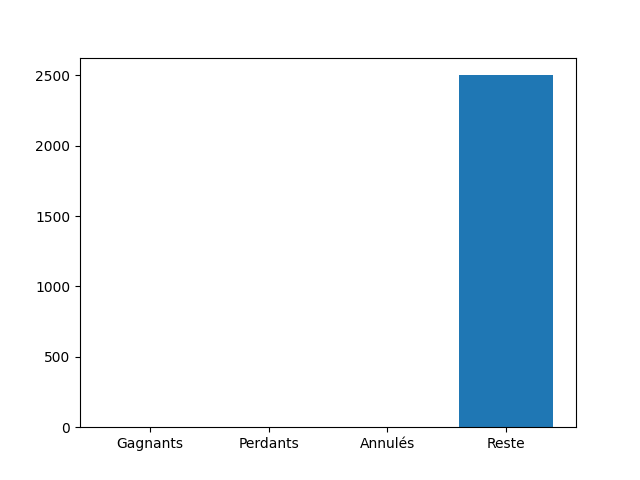
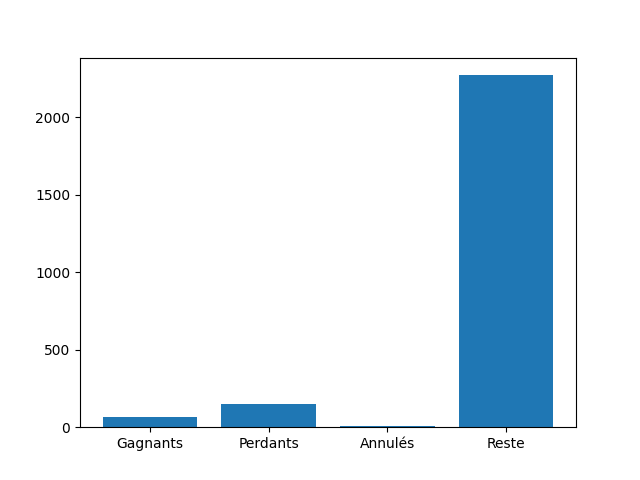
model learning implemented + opti of code

diff --git a/Structure.py b/Structure.py
@@ -1,7 +1,8 @@
 import threading
+import torch
 
 class Structure:
-    def __init__(self, start_edge, end_edge, edges, net, dict_shortest_path, dict_cyclists, dict_cyclists_deleted, dict_cyclists_arrived, traci,\
+    def __init__(self, start_edge, end_edge, edges, net, dict_shortest_path, dict_cyclists, traci,\
     dict_edges_index=None, model=None, open=True, min_group_size=5, step_gap=15, time_travel_multiplier=1):
 
         for e in edges:
@@ -16,8 +17,6 @@ class Structure:
         self.path = self.dict_shortest_path[self.start_edge.getID()+";"+self.end_edge.getID()]
 
         self.dict_cyclists = dict_cyclists
-        self.dict_cyclists_deleted = dict_cyclists_deleted
-        self.dict_cyclists_arrived = dict_cyclists_arrived
 
         self.module_traci = traci
 
@@ -25,7 +24,12 @@ class Structure:
         self.id_cyclists_waiting = []
 
         self.model = model
+        self.loss = torch.nn.BCELoss()
         self.dict_edges_index = dict_edges_index
+        self.dict_model_output = {}
+        self.list_output_to_learn = []
+        self.list_target = []
+
 
         for e in self.path["path"]:
             tls = net.getEdge(e).getTLS()
@@ -64,22 +68,21 @@ class Structure:
     def step(self, step, edges):
         #print(step, self.id_cyclists_waiting)
 
+        if(len(self.list_output_to_learn)>=256):
+            tens_output = torch.FloatTensor(self.list_output_to_learn)
+            tens_target = torch.FloatTensor(self.list_target)
+            l = self.loss(tens_output, tens_target)
+            l.backward()
+            self.list_output_to_learn = []
+            self.list_target = []
+
+
         if(self.open and step%self.step_gap==0):
-            self.check_for_candidates(step, edges)
+            self.check_for_candidates(step, edges)           
 
 
 
         for i in self.module_traci.edge.getLastStepVehicleIDs(self.start_edge.getID()):
-            if(i not in self.dict_cyclists):
-                if i in self.dict_cyclists_deleted:
-                    self.dict_cyclists[i] = self.dict_cyclists_deleted[i]
-                    del self.dict_cyclists_deleted[i]
-                else:
-                    self.dict_cyclists[i] = self.dict_cyclists_arrived[i]
-                    del self.dict_cyclists_arrived[i]
-                self.dict_cyclists[i].alive = True
-                
-                print(i, "removed from dict while still in simu")
             if(self.module_traci.vehicle.getSpeed(i)<= 1 and i not in self.id_cyclists_waiting\
             and i not in self.id_cyclists_crossing_struct and self.dict_cyclists[i].struct_candidate):
                 self.id_cyclists_waiting.append(i)
@@ -93,12 +96,6 @@ class Structure:
             self.activated = True
             min_max_speed = 100
             for i in self.id_cyclists_waiting:
-                if(i not in self.dict_cyclists):
-                    self.dict_cyclists[i] = self.dict_cyclists_deleted[i]
-                    self.dict_cyclists[i].alive = True
-                    del self.dict_cyclists_deleted[i]
-                    print(i, "bugged (disapperead from id list while waiting)")
-
                 self.dict_cyclists[i].cross_struct()
                 if(self.dict_cyclists[i].max_speed < min_max_speed):
                     min_max_speed = self.dict_cyclists[i].max_speed
@@ -110,7 +107,7 @@ class Structure:
             for i in self.id_cyclists_crossing_struct:
                 self.dict_cyclists[i].set_max_speed(min_max_speed)
 
-            print("activated at step", step)
+            #print("activated at step", step)
 
         if(len(self.id_cyclists_crossing_struct)>0):
 
@@ -135,13 +132,18 @@ class Structure:
         list_id_candidates = []
 
         if(self.model != None and self.dict_edges_index != None):
-            edges_occupation=[len(self.module_traci.edge.getLastStepVehicleIDs(e.getID())) for e in edges]
+            edges_occupation=[len(self.module_traci.edge.getLastStepVehicleIDs(e.getID()))+1 for e in edges]
         for i in self.dict_cyclists:
             if(i not in self.id_cyclists_waiting and i not in self.id_cyclists_crossing_struct\
             and not self.dict_cyclists[i].struct_crossed and not self.dict_cyclists[i].canceled_candidature):
                 if(self.dict_cyclists[i].actual_edge_id[0] != ":"):
                     if(self.model != None and self.dict_edges_index != None):
-                        out = self.model(edges_occupation, [self.dict_edges_index[self.dict_cyclists[i].actual_edge_id]])
+                        tens_edges_occupation = torch.tensor(edges_occupation, dtype=torch.float)
+                        tens_actual_edge = torch.tensor([self.dict_edges_index[self.dict_cyclists[i].actual_edge_id]], dtype=torch.float)
+                        out = self.model(tens_edges_occupation, tens_actual_edge)
+                        if(out >= 0.5):
+                            #self.dict_model_output[i] = out
+                            self.dict_cyclists[i].struct_candidate=True
                     else:
                             key_path_to_struct = self.dict_cyclists[i].actual_edge_id+";"+self.start_edge.getID()
                             if(key_path_to_struct in self.dict_shortest_path):
@@ -155,7 +157,7 @@ class Structure:
                                 if(step_arriving_by_crossing_struct<=self.dict_cyclists[i].estimated_finish_step):
                                     list_id_candidates.append(i)
 
-        if(len(list_id_candidates)>=self.min_group_size*1):
+        if(self.model == None and len(list_id_candidates)>=self.min_group_size*1):
             for i in list_id_candidates:
                 self.dict_cyclists[i].struct_candidate=True
 

diff --git a/main.py b/main.py
@@ -10,16 +10,35 @@ from Structure import Structure
 from graphs import *
 from Model import Model
 
+
+
+load_shortest_paths = False
+
+new_scenario = False
+
+open_struct=not new_scenario
+min_group_size=5
+step_gap=15
+time_travel_multiplier=0
+
+use_model = False
+save_model = False
+
+
+step_length = 1
+
+
+
+
+
 if 'SUMO_HOME' in os.environ:
     tools = os.path.join(os.environ['SUMO_HOME'], 'tools')
     sys.path.append(tools)
 else:
     sys.exit("please declare environment variable 'SUMO_HOME'")
 
-step_length = 1
-
 sumoBinary = "/usr/bin/sumo"
-sumoCmd = [sumoBinary, "-c", "osm.sumocfg", "--waiting-time-memory", '10000', '--start', '--quit-on-end', '--delay', '0', '--step-length', str(step_length)]#, '--no-warnings']
+sumoCmd = [sumoBinary, "-c", "osm.sumocfg", "--waiting-time-memory", '10000', '--start', '--quit-on-end', '--delay', '0', '--step-length', str(step_length), '--no-warnings']
 
 
 import traci
@@ -74,13 +93,10 @@ net = sumolib.net.readNet('osm.net.xml')
 edges = net.getEdges()
 
 dict_cyclists = {}
-dict_cyclists_deleted = {}
 dict_cyclists_arrived = {}
 
 id=0
 step=0
-
-load_shortest_paths = False
 
 if(load_shortest_paths):
     num_step = len(edges)**2
@@ -106,9 +122,6 @@ else:
 
 
 
-
-new_scenario = False
-
 if(new_scenario):
     print("WARNING : Creating a new scenario...")
     tab_scenario=[]
@@ -121,10 +134,18 @@ dict_edges_index = {}
 for i, e in enumerate(edges) :
     dict_edges_index[e.getID()] = i
 
-model = Model(len(edges), 256, 128)
 
-structure = Structure("237920408#2", "207728319#9", edges, net, dict_shortest_path, dict_cyclists, dict_cyclists_deleted, dict_cyclists_arrived, traci,\
-dict_edges_index, model,open=not new_scenario, min_group_size=5, step_gap=15, time_travel_multiplier=0.85)
+if(use_model == True):
+    model = Model(len(edges), 256, 128)
+    if(os.path.exists("models/model.pt")):
+        model.load_state_dict(torch.load("models/model.pt"))
+        model.eval()
+else:
+    model = None
+
+
+structure = Structure("237920408#2", "207728319#9", edges, net, dict_shortest_path, dict_cyclists, traci, dict_edges_index, model,\
+open=open_struct, min_group_size=min_group_size, step_gap=step_gap, time_travel_multiplier=time_travel_multiplier)
 
 if(structure.open):
     print("WARNING : Structure is open...")
@@ -179,30 +200,25 @@ while(len(dict_cyclists) != 0 or id<=num_cyclists):
 
     traci.simulationStep() 
 
-    for i in copy.deepcopy(list(dict_cyclists_deleted.keys())):
-        if(i in traci.vehicle.getIDList()):
-            dict_cyclists[i] = dict_cyclists_deleted[i]
-            del dict_cyclists_deleted[i]
-            dict_cyclists[i].alive=True
-        elif(step-dict_cyclists_deleted[i].finish_step>100):
-            dict_cyclists_arrived[i] = dict_cyclists_deleted[i]
-            del dict_cyclists_deleted[i]
-
-
     for i in copy.deepcopy(list(dict_cyclists.keys())):
         dict_cyclists[i].step(step, tab_scenario, new_scenario)
         if(not dict_cyclists[i].alive):
-            if(not dict_cyclists[i].arrived):
-                dict_cyclists_deleted[i] = dict_cyclists[i]
-            else:
-                dict_cyclists_arrived[i] = dict_cyclists[i]
+            dict_cyclists_arrived[i] = dict_cyclists[i]
+            if(i in structure.dict_model_output):
+                if(dict_cyclists[i].finish_step<tab_scenario[int(dict_cyclists[i].id)]["finish_step"]):
+                    target = torch.Tensor([1])
+                else:
+                    target = torch.Tensor([0])
+                structure.list_output_to_learn.append(structure.dict_model_output[i])
+                structure.list_target.append(target)
+                del structure.dict_model_output[i]
             del dict_cyclists[i]
 
     if(step%1==0):
         structure.step(step, edges)
 
-    print("\rStep {}: {} cyclists in simu, {} cyclists spawned since start, {} in dict_deleted."\
-    .format(step, len(traci.vehicle.getIDList()), id, len(dict_cyclists_deleted)), end="")
+    print("\rStep {}: {} cyclists in simu, {} cyclists spawned since start."\
+    .format(step, len(traci.vehicle.getIDList()), id), end="")
 
     step += step_length
 
@@ -213,8 +229,10 @@ if(new_scenario):
 
 traci.close()
 
-for i in dict_cyclists_deleted:
-    dict_cyclists_arrived[i]=dict_cyclists_deleted[i]
+if(model != None and save_model):
+    if(not os.path.exists("models")):
+        os.makedirs("models")
+    torch.save(model.state_dict(), "models/model.pt")
 
 
 print("\ndata number:", len(dict_cyclists_arrived), ",", structure.num_cyclists_crossed, "cyclits used struct, last step:", step)

diff --git a/Model.py b/Model.py
@@ -13,9 +13,7 @@ class Model(nn.Module):
         self.int = nn.Linear(size_hidden_1+1, size_hidden_2)
         self.out = nn.Linear(size_hidden_2, 1)
 
-    def forward(self, edges_occupation, actual_edge):
-        tens_edges_occupation = torch.tensor(edges_occupation, dtype=torch.float)
-        tens_actual_edge = torch.tensor(actual_edge, dtype=torch.float)
+    def forward(self, tens_edges_occupation, tens_actual_edge):
         out = nn.functional.relu(self.inp(tens_edges_occupation))
         out = nn.functional.relu(self.int(torch.cat((out, tens_actual_edge))))
         return torch.sigmoid(self.out(out))

diff --git a/graphs.py b/graphs.py
@@ -86,3 +86,11 @@ def plot_and_save_bar(data, file_title, labels=None):
     ax1.set_title('')
     ax1.bar(range(len(data)), data, tick_label=labels)
     plt.savefig("images/"+file_title+".png")
+
+
+def plot_and_save_line(data, file_title, labels=None):
+    plt.clf()
+    fig1, ax1 = plt.subplots()
+    ax1.set_title('')
+    ax1.bar(range(len(data)), data, tick_label=labels)
+    plt.savefig("images/"+file_title+".png")

diff --git a/Cyclist.py b/Cyclist.py
@@ -103,7 +103,7 @@ class Cyclist:
             if(self.struct_candidate):
                 self.module_traci.vehicle.highlight(self.id)
 
-        else:
+        elif(self.id in self.module_traci.simulation.getArrivedIDList()):
             self.alive = False
             self.finish_step=step
             if(self.id in self.structure.id_cyclists_crossing_struct):
